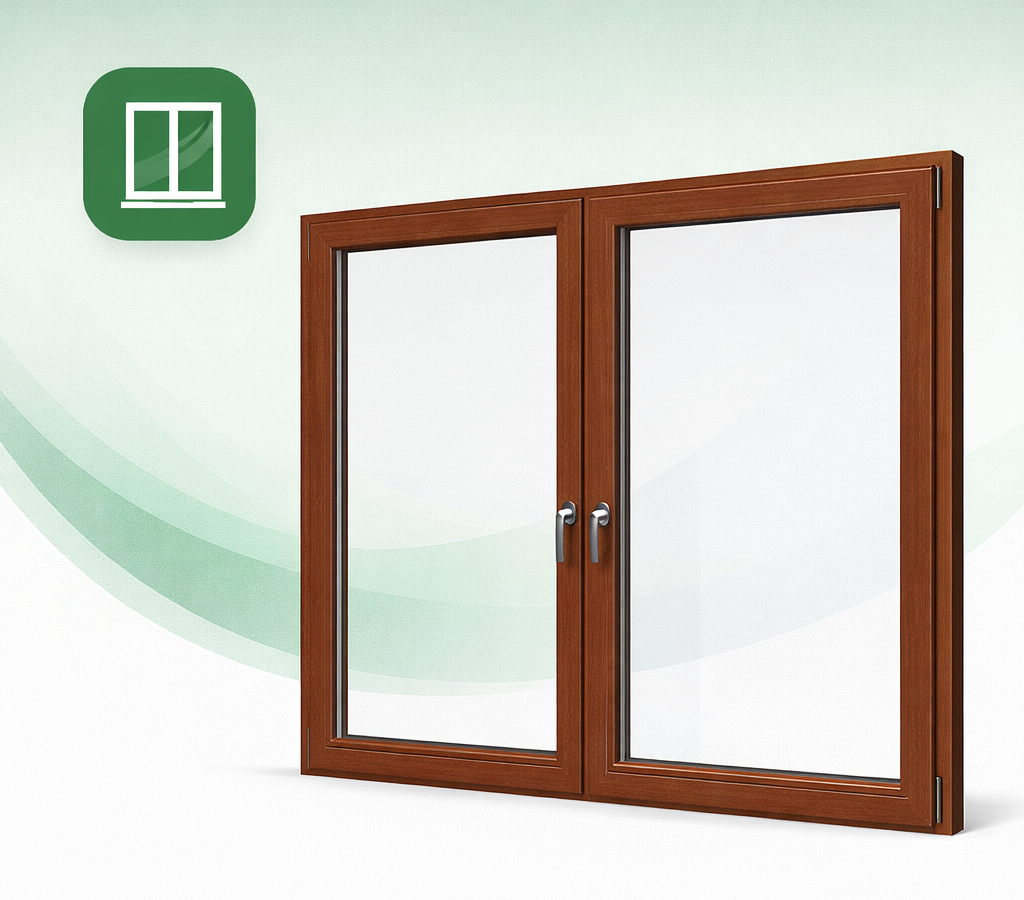
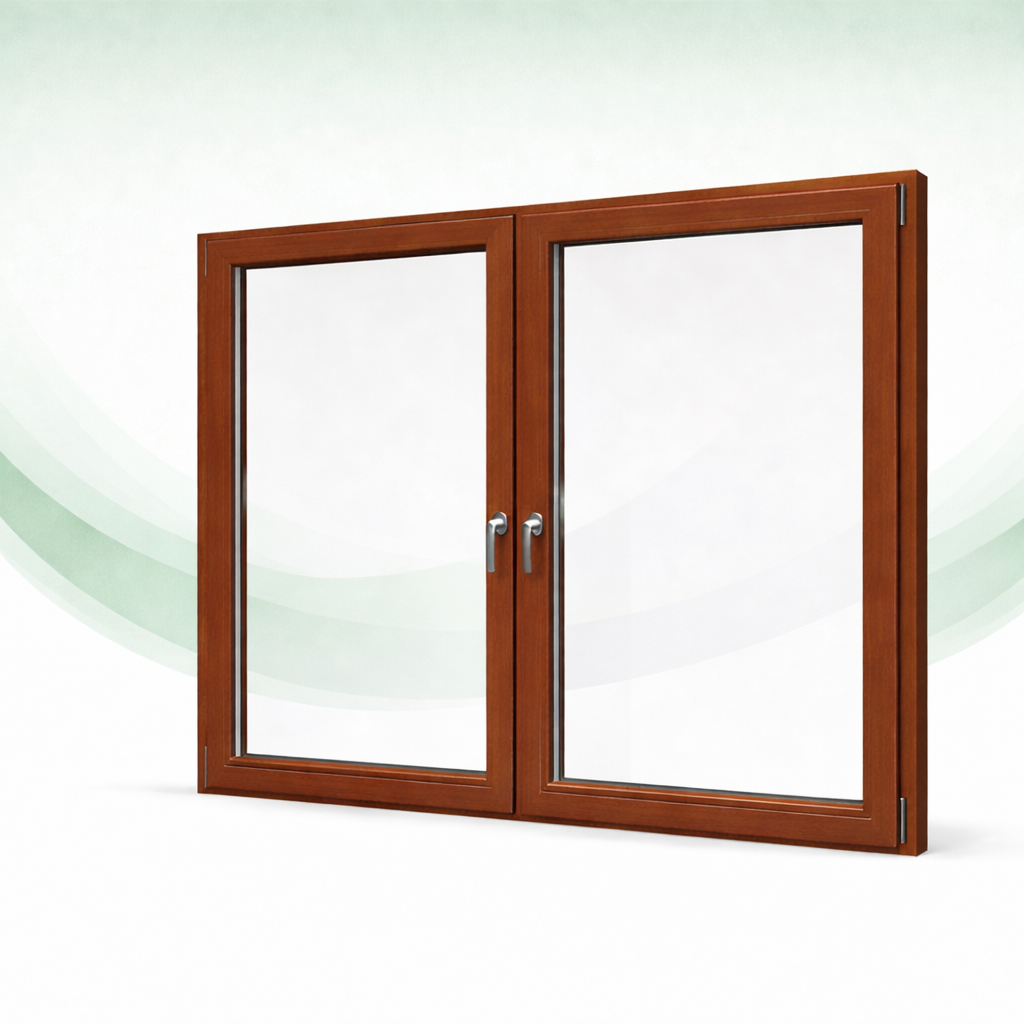
Wip products in aboutus section

diff --git a/src/components/home/ProducSection.jsx b/src/components/home/ProducSection.jsx
@@ -1,5 +1,5 @@
 // src/components/home/ProductSection.jsx
-import React, { useRef } from 'react';
+import React from 'react';
 import styled from 'styled-components';
 import { Link } from 'react-router-dom';
 import { IoIosArrowForward } from 'react-icons/io';
@@ -31,12 +31,10 @@ const TilesGrid = styled.div`
 `;
 
 const TileCard = styled(Link)`
-  border: 1px solid #003f0e4b;
   display: flex;
   flex-direction: column;
   background: #ffffff;
   border-radius: 12px;
-  padding: 2.4rem;
   text-decoration: none;
   transition: transform 0.3s ease, box-shadow 0.3s ease;
   box-shadow: 0px 7px 23px -9px rgba(0, 0, 0, 0.39);
@@ -44,7 +42,6 @@ const TileCard = styled(Link)`
   overflow: hidden;
   
   &:hover {
-    border: 1px solid #003f0e8d;
     transform: translateY(-4px);
     box-shadow: 0px 7px 23px -9px rgba(0, 0, 0, 0.651);
   }
@@ -55,7 +52,6 @@ const TileCard = styled(Link)`
   }
 
   @media (max-width: ${({ theme }) => theme.breakpoints.sm}) {
-    padding: 1rem;
     border-radius: 8px;
     box-shadow: 0px 6px 15px -9px rgba(0, 0, 0, 0.39);
 
@@ -65,16 +61,13 @@ const TileCard = styled(Link)`
   }
 `;
 
-const TileVideoWrapper = styled.div`
+const TileBackgroundWrapper = styled.div`
   width: 100%;
-  height: 320px;
-  display: flex;
-  align-items: center;
-  justify-content: center;
-  margin-bottom: 1.6rem;
-  border-radius: 8px;
-  overflow: hidden;
-  background-color: #ffffff;
+  height: 390px;
+  background-image: url(${({ $bgSrc }) => $bgSrc});
+  background-size: cover;
+  background-position: center;
+  background-repeat: no-repeat;
   
   @media (max-width: ${({ theme }) => theme.breakpoints.md}) {
     height: 280px;
@@ -82,30 +75,18 @@ const TileVideoWrapper = styled.div`
   
   @media (max-width: ${({ theme }) => theme.breakpoints.sm}) {
     height: 140px;
-    margin-bottom: 1rem;
   }
-`;
-
-const TileBackground = styled.video`
-  width: 100%;
-  height: 100%;
-  object-fit: contain;
-  background-color: #fff;
-  pointer-events: none;
-`;
-
-const TileVideo = styled.video`
-  width: 100%;
-  height: 100%;
-  object-fit: contain;
-  background-color: #fff;
-  pointer-events: none;
 `;
 
 const TileContent = styled.div`
   display: flex;
   flex-direction: column;
   flex: 1;
+  padding: 0 2.4rem 2.4rem;
+  
+  @media (max-width: ${({ theme }) => theme.breakpoints.sm}) {
+    padding: 0 1rem 1rem;
+  }
 `;
 
 const TileLine = styled.div`
@@ -155,10 +136,9 @@ const TileFooter = styled.div`
   display: flex;
   justify-content: flex-end;
   align-items: center;
-  margin-top: 1.2rem;
 
   @media (max-width: ${({ theme }) => theme.breakpoints.sm}) {
-    margin-top: 0.8rem;
+    margin-top: 0.5rem;
   }
 `;
 
@@ -172,55 +152,21 @@ const ArrowIcon = styled(IoIosArrowForward)`
   }
 `;
 
-// Osobny komponent dla pojedynczego kafelka z kontrolą wideo
+// Komponent dla pojedynczego kafelka
 const ProductTile = ({ id, product }) => {
-  const videoRef = useRef(null);
-
-  const handleLoadedData = () => {
-    if (videoRef.current) {
-      videoRef.current.currentTime = 0.01;
-    }
-  };
-
-  const handleMouseEnter = () => {
-    if (videoRef.current) {
-      videoRef.current.play().catch(() => { });
-    }
-  };
-
-  const handleMouseLeave = () => {
-    if (videoRef.current) {
-      videoRef.current.pause();
-    }
-  };
-
   return (
-    <TileCard
-      to={`/produkty/${id}`}
-      onMouseEnter={handleMouseEnter}
-      onMouseLeave={handleMouseLeave}
-    >
-      <TileVideoWrapper>
-        <TileVideo
-          ref={videoRef}
-          src={product.videoSrc}
-          loop
-          muted
-          playsInline
-          preload="auto"
-          onLoadedData={handleLoadedData}
-        />
-      </TileVideoWrapper>
+    <TileCard to={`/produkty/${id}`}>
+      <TileBackgroundWrapper $bgSrc={product.backgroundSrc} />
       <TileContent>
         <TileTitle>{product.name}</TileTitle>
         <TileLine />
         <TileDescription>
           {product.description}
         </TileDescription>
+        <TileFooter>
+          <ArrowIcon />
+        </TileFooter>
       </TileContent>
-      <TileFooter>
-        <ArrowIcon />
-      </TileFooter>
     </TileCard>
   );
 };

diff --git a/src/pages/HomePage.jsx b/src/pages/HomePage.jsx
@@ -58,24 +58,29 @@ const HomePage = () => {
       id: PRODUCT_TYPES.WINDOWS,
       name: t('products.windows.name'),
       description: t('products.windows.description'),
+      backgroundSrc: '/images/aboutus/okno-kafelka.png',
       videoSrc: VIDEO_SOURCES.WINDOWS,
     },
     [PRODUCT_TYPES.DOORS]: {
       id: PRODUCT_TYPES.DOORS,
       name: t('products.doors.name'),
       description: t('products.doors.description'),
+      backgroundSrc: '/images/aboutus/drzwi-kafelka.png',
       videoSrc: VIDEO_SOURCES.DOORS,
     },
     [PRODUCT_TYPES.TERRACE_DOORS]: {
       id: PRODUCT_TYPES.TERRACE_DOORS,
       name: t('products.terraceDoors.name'),
       description: t('products.terraceDoors.description'),
+      backgroundSrc: '/images/aboutus/hs-kafelka.png',
+
       videoSrc: VIDEO_SOURCES.TERRACE_DOORS,
     },
     [PRODUCT_TYPES.FIRE_RESISTANT]: {
       id: PRODUCT_TYPES.FIRE_RESISTANT,
       name: t('products.fireResistant.name'),
       description: t('products.fireResistant.description'),
+      backgroundSrc: '/images/aboutus/drzwi-kafelka.png',
       videoSrc: VIDEO_SOURCES.FIRE_RESISTANT,
     },
   };
@@ -92,7 +97,7 @@ const HomePage = () => {
         productData={productData}
         initialProductId={PRODUCT_TYPES.WINDOWS}
       />
-      <Section 
+      <Section
         noMarginBottom
         dark
         customStyles={`
